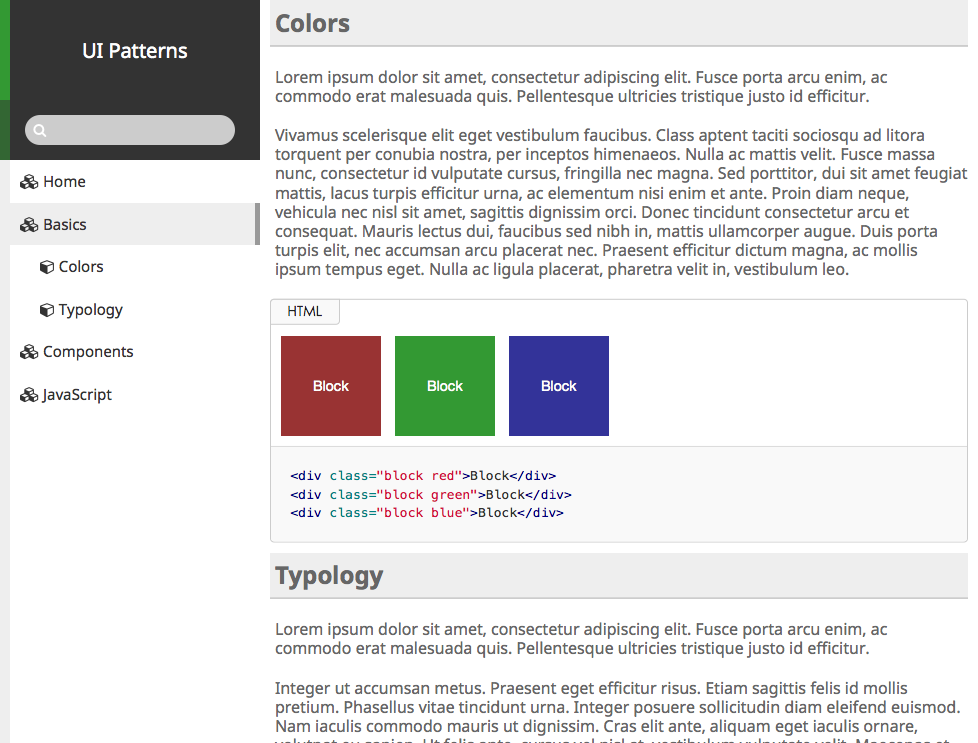
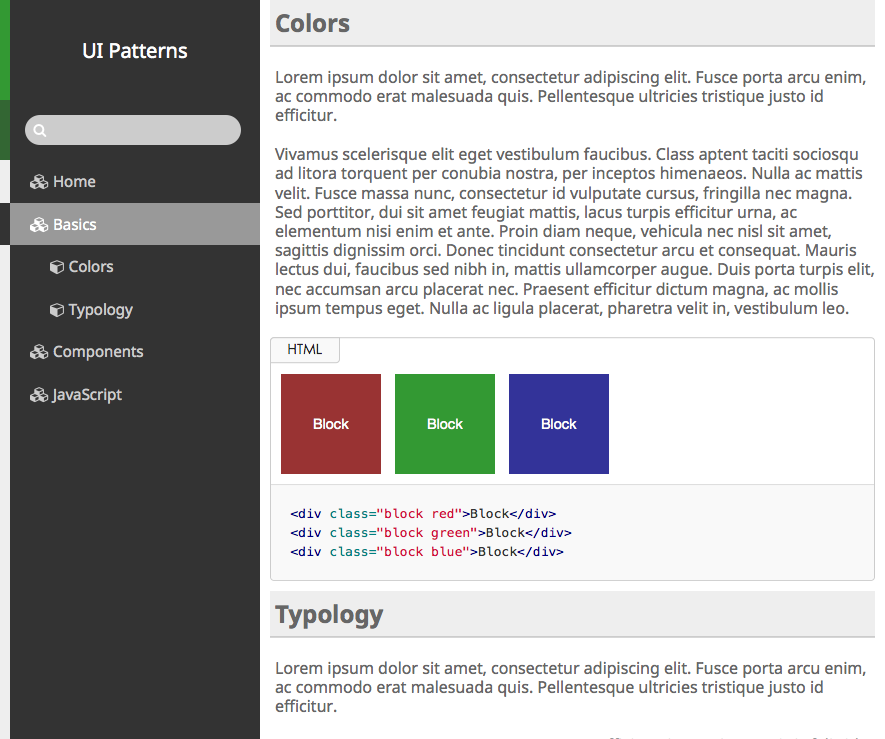
Build 0.2.2

diff --git a/build/css/docs.css b/build/css/docs.css
@@ -1,1 +1,1 @@
-body{margin:0;padding:0;background-color:#333}p{font-size:15px}a{font-size:15px;color:#333;text-decoration:none}.doc-navbar{width:100%;height:50px}.doc-navbar .doc-brand{float:left}.doc-navbar .doc-search-form{float:right;height:50px}.doc-container{position:relative;display:block;overflow:hidden;background-color:#fff;border-left:10px solid #eee;min-height:600px;min-height:100vh}.doc-container>.doc-sidebar{position:fixed;top:0;z-index:99;float:left;width:250px;min-height:100%}.doc-container>.doc-sidebar .doc-sidebar-nav{width:250px}.doc-container>.doc-content{position:relative;float:left;width:100%;padding:0 10px 10px 260px;margin-right:-250px;min-height:600px;min-height:100vh}.doc-container>.doc-content>h1{margin:20px auto}.doc-container>.doc-content>p{margin:20px 0 !important;color:#666}.doc-container>.doc-footer{position:relative;clear:both}.doc-sidebar{font-family:"Noto Sans",sans-serif}.doc-sidebar .doc-brand{display:block;height:100px;margin-left:-10px;color:#fff;font-size:20px;line-height:100px;text-align:center;background:#333;border-left:10px solid #393}.doc-sidebar .doc-sidebar-nav{margin:0;padding:0;list-style:none}.doc-sidebar .doc-sidebar-nav li{margin:0}.doc-sidebar .doc-sidebar-nav li a{display:block;padding:10px;line-height:1.5;font-size:15px;border-right:5px solid transparent}.doc-sidebar .doc-sidebar-nav li.active>a,.doc-sidebar .doc-sidebar-nav li a:hover{text-decoration:none;background:#eee;border-right:5px solid #999}.doc-sidebar .doc-sidebar-subnav{margin:0;padding:0;padding-left:20px;list-style:none}.doc-sidebar .doc-sidebar-subnav li.active>a,.doc-sidebar .doc-sidebar-subnav li a:hover{font-weight:bold;text-decoration:none;background:transparent;border-right:5px solid transparent}.doc-search-form{position:relative;display:block;height:60px;margin-left:-10px;color:#fff;background:#333;border-left:10px solid #363}.doc-search-form .doc-search-keyword{width:210px;height:30px;margin:15px;padding:3px 30px;border-radius:15px;color:#fff;border:none;background:#ccc}.doc-search-form .doc-search-icon{position:absolute;z-index:99;width:30px;height:30px;top:15px;left:15px;line-height:30px;text-align:center}.autocomplete-suggestions{padding:10px;border:1px solid #999;background:#FFF;overflow:auto;border-radius:15px}.autocomplete-suggestion{padding:10px;font-family:"Noto Sans",sans-serif;white-space:nowrap;overflow:hidden;border-radius:15px}.autocomplete-selected{background:#F0F0F0}.autocomplete-suggestions strong{font-weight:normal;color:#393}.autocomplete-group{padding:2px 5px}.autocomplete-group strong{display:block;border-bottom:1px solid #000}.doc-content{background:#fff}.doc-content>h1,.doc-content h1.styleguide{margin:0;padding:8px 5px;color:#666;font-family:"Noto Sans",sans-serif;font-size:24px;font-weight:bold;line-height:1.2;text-align:left;border-bottom:2px solid #ccc;background:#eee}.doc-content p.styleguide{font-family:"Noto Sans",sans-serif;font-size:16px;padding-left:5px;line-height:1.2;text-align:left}.doc-footer{padding:30px;text-align:center;border-top:1px solid #ccc}.doc-footer .doc-powered-by{color:#999;font-size:12px}.doc-footer .doc-powered-by>a{font-size:12px;color:#333}code{padding:2px 4px;color:#d14;white-space:nowrap;background-color:#f9f9f9;border:1px solid #ccc;border-radius:4px}.highlight>pre{background-color:transparent;border:none;border-radius:0;margin-bottom:0}.codeExample{border:1px solid #ccc;border-radius:4px;margin:10px 0}.jsExample{border:1px solid #ccc;border-radius:4px;margin:10px 0;border-top:0px}.codeExample:before,.jsExample:before{font-family:"OpenSans",sans-serif;color:#222;border:1px solid #ccc;border-radius:4px;border-bottom-left-radius:0;border-top-right-radius:0;position:relative;padding:2px;display:block}.codeExample:before{content:"HTML";width:70px;top:-1px;left:-1px;text-align:center;background-color:#f9f9f9}.jsExample:before{content:"JavaScript";width:80px;top:-11px;left:-11px;text-align:center;background-color:#fff}.codeBlock,.exampleOutput{padding:10px}.codeBlock{background-color:#f9f9f9;border-top:1px solid #ccc;border-bottom-left-radius:4px;border-bottom-right-radius:4px}hll{background-color:#ffc}.c{color:#998;font-style:italic}.err{color:#a61717;background-color:#e3d2d2}.k,.o{color:#000;font-weight:bold}.cm{color:#998;font-style:italic}.cp{color:#999;font-weight:bold;font-style:italic}.c1{color:#998;font-style:italic}.cs{color:#999;font-weight:bold;font-style:italic}.gd{color:#000;background-color:#fdd}.ge{color:#000;font-style:italic}.gr{color:#a00}.gh{color:#999}.gi{color:#000;background-color:#dfd}.go{color:#888}.gp{color:#555}.gs{font-weight:bold}.gu{color:#aaa}.gt{color:#a00}.kc,.kd,.kn,.kp,.kr{color:#000;font-weight:bold}.kt{color:#458;font-weight:bold}.m{color:#099}.s{color:#d01040}.na{color:teal}.nb{color:#0086B3}.nc{color:#458;font-weight:bold}.no{color:teal}.nd{color:#3c5d5d;font-weight:bold}.ni{color:purple}.ne,.nf,.nl{color:#900;font-weight:bold}.nn{color:#555}.nt{color:navy}.nv{color:teal}.ow{color:#000;font-weight:bold}.w{color:#bbb}.mf,.mh,.mi,.mo{color:#099}.sb,.sc,.sd,.s2,.se,.sh,.si,.sx{color:#d01040}.sr{color:#009926}.s1{color:#d01040}.ss{color:#990073}.bp{color:#999}.vc,.vg,.vi{color:teal}.il{color:#099}
+body{margin:0;padding:0;background-color:#333}p{font-size:15px}a{font-size:15px;color:#333;text-decoration:none}.doc-navbar{width:100%;height:50px}.doc-navbar .doc-brand{float:left}.doc-navbar .doc-search-form{float:right;height:50px}.doc-container{position:relative;display:block;overflow:hidden;background-color:#fff;border-left:10px solid #eee;min-height:600px;min-height:100vh}.doc-container>.doc-sidebar{position:fixed;top:0;z-index:99;float:left;width:250px;min-height:100%}.doc-container>.doc-sidebar .doc-sidebar-nav{width:250px}.doc-container>.doc-content{position:relative;float:left;width:100%;padding:0 10px 10px 260px;margin-right:-250px;min-height:600px;min-height:100vh}.doc-container>.doc-content>h1{margin:20px auto}.doc-container>.doc-content>p{margin:20px 0 !important;color:#666}.doc-container>.doc-footer{position:relative;clear:both}.doc-sidebar{font-family:"Noto Sans",sans-serif;background:#333}.doc-sidebar .doc-brand{display:block;height:100px;margin-left:-10px;color:#fff;font-size:20px;line-height:100px;text-align:center;background:#333;border-left:10px solid #393}.doc-sidebar .doc-sidebar-nav{margin:0;padding:0;list-style:none}.doc-sidebar .doc-sidebar-nav li{margin:0;margin-left:-10px}.doc-sidebar .doc-sidebar-nav li a{display:block;padding:10px 10px 10px 20px;line-height:1.5;font-size:15px;color:#ccc;border-left:10px solid transparent}.doc-sidebar .doc-sidebar-nav li.active>a,.doc-sidebar .doc-sidebar-nav li a:hover{color:#fff;text-decoration:none;background:#999;border-left:10px solid #333}.doc-sidebar .doc-sidebar-subnav{margin:0;padding:0;padding-left:30px;list-style:none}.doc-sidebar .doc-sidebar-subnav li.active>a,.doc-sidebar .doc-sidebar-subnav li a:hover{font-weight:bold;text-decoration:none;background:transparent;border-right:5px solid transparent}.doc-search-form{position:relative;display:block;height:60px;margin-left:-10px;color:#fff;background:#333;border-left:10px solid #363}.doc-search-form .doc-search-keyword{width:216px;height:30px;margin:15px;padding:3px 30px;border-radius:15px;color:#fff;border:none;background:#ccc}.doc-search-form .doc-search-icon{position:absolute;z-index:99;width:30px;height:30px;top:15px;left:15px;line-height:30px;text-align:center}.autocomplete-suggestions{padding:10px;border:1px solid #999;background:#FFF;overflow:auto;border-radius:15px}.autocomplete-suggestion{padding:10px;font-family:"Noto Sans",sans-serif;white-space:nowrap;overflow:hidden;border-radius:15px}.autocomplete-selected{background:#F0F0F0}.autocomplete-suggestions strong{font-weight:normal;color:#393}.autocomplete-group{padding:2px 5px}.autocomplete-group strong{display:block;border-bottom:1px solid #000}.doc-content{background:#fff}.doc-content>h1,.doc-content h1.styleguide{margin:0;padding:8px 5px;color:#666;font-family:"Noto Sans",sans-serif;font-size:24px;font-weight:bold;line-height:1.2;text-align:left;border-bottom:2px solid #ccc;background:#eee}.doc-content p.styleguide{font-family:"Noto Sans",sans-serif;font-size:16px;padding-left:5px;line-height:1.2;text-align:left}.doc-footer{padding:30px;text-align:center;border-top:1px solid #ccc}.doc-footer .doc-powered-by{color:#999;font-size:12px}.doc-footer .doc-powered-by>a{font-size:12px;color:#333}code{padding:2px 4px;color:#d14;white-space:nowrap;background-color:#f9f9f9;border:1px solid #ccc;border-radius:4px}.highlight>pre{background-color:transparent;border:none;border-radius:0;margin-bottom:0}.codeExample{border:1px solid #ccc;border-radius:4px;margin:10px 0}.jsExample{border:1px solid #ccc;border-radius:4px;margin:10px 0;border-top:0px}.codeExample:before,.jsExample:before{font-family:"OpenSans",sans-serif;color:#222;border:1px solid #ccc;border-radius:4px;border-bottom-left-radius:0;border-top-right-radius:0;position:relative;padding:2px;display:block}.codeExample:before{content:"HTML";width:70px;top:-1px;left:-1px;text-align:center;background-color:#f9f9f9}.jsExample:before{content:"JavaScript";width:80px;top:-11px;left:-11px;text-align:center;background-color:#fff}.codeBlock,.exampleOutput{padding:10px}.codeBlock{background-color:#f9f9f9;border-top:1px solid #ccc;border-bottom-left-radius:4px;border-bottom-right-radius:4px}hll{background-color:#ffc}.c{color:#998;font-style:italic}.err{color:#a61717;background-color:#e3d2d2}.k,.o{color:#000;font-weight:bold}.cm{color:#998;font-style:italic}.cp{color:#999;font-weight:bold;font-style:italic}.c1{color:#998;font-style:italic}.cs{color:#999;font-weight:bold;font-style:italic}.gd{color:#000;background-color:#fdd}.ge{color:#000;font-style:italic}.gr{color:#a00}.gh{color:#999}.gi{color:#000;background-color:#dfd}.go{color:#888}.gp{color:#555}.gs{font-weight:bold}.gu{color:#aaa}.gt{color:#a00}.kc,.kd,.kn,.kp,.kr{color:#000;font-weight:bold}.kt{color:#458;font-weight:bold}.m{color:#099}.s{color:#d01040}.na{color:teal}.nb{color:#0086B3}.nc{color:#458;font-weight:bold}.no{color:teal}.nd{color:#3c5d5d;font-weight:bold}.ni{color:purple}.ne,.nf,.nl{color:#900;font-weight:bold}.nn{color:#555}.nt{color:navy}.nv{color:teal}.ow{color:#000;font-weight:bold}.w{color:#bbb}.mf,.mh,.mi,.mo{color:#099}.sb,.sc,.sd,.s2,.se,.sh,.si,.sx{color:#d01040}.sr{color:#009926}.s1{color:#d01040}.ss{color:#990073}.bp{color:#999}.vc,.vg,.vi{color:teal}.il{color:#099}
